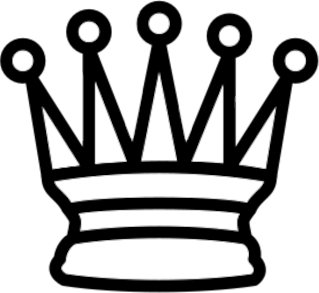
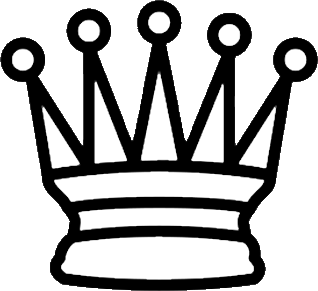
#144 clean up code, beautify CSS for PromotionModal lookin good now, but  still functionally inert

diff --git a/src/frontend/styles/index.css b/src/frontend/styles/index.css
@@ -95,7 +95,7 @@ main {
 }
 
 .playArea {
-    margin-top: 3%;
+    margin-top: 5%;
     margin-left: 1%;
 }
 
@@ -111,6 +111,7 @@ main {
     width: 60px;
     height: 60px;
     display: inline-block;
+    position: relative;
 }
 
 .lightTile {
@@ -136,6 +137,47 @@ main {
     margin-left: 10%;
     margin-top: 10%;
     pointer-events: none;
+}
+
+.promotionModal {
+    z-index: 100;
+    position: absolute;
+    width: 250px;
+    height: 70px;
+    right: -158%;
+    bottom: 75%;
+    border-radius: 100px;
+}
+
+.promotionModalWhite {
+    background: #ffffff99;
+}
+
+.promotionModalBlack {
+    background: #00000099;
+}
+
+.promotionPieceDiv {
+    border-radius: 200px;
+    display: inline-block;
+    position: relative;
+    height: 60px;
+    width: 60px;
+    top: 5px;
+    left: 2%;
+}
+
+.promotionPieceDiv:hover {
+    background: #00000099;
+}
+
+.promotionPiece {
+    position: relative;
+    left: 15%;
+    top: 15%;
+    height: 70%; /* proportionate to nearest absolute parent */
+    width: 70%;
+    opacity: 1;
 }
 
 #createGameDiv {

diff --git a/src/frontend/scripts/components/chess/Chessboard.js b/src/frontend/scripts/components/chess/Chessboard.js
@@ -5,15 +5,15 @@ import React, {useEffect, useState} from 'react';
 import generateMoves from "./moveGenerator";
 import {chessSocketConnect, sendMoveUpdate} from "./chessSocket";
 import {isPromotion, pieceAt} from "./chessUtils";
-import displayPromotionModal from "./PromotionModal";
+import PromotionModal from "./PromotionModal";
 
 export function Chessboard() {
 
 	const [boardstate, setBoardstate] = useState(payload.game.boardstate);
 	const [gameDetails, setGameDetails] = useState([]); // gets populated during socket connect
 
-	let [highlightedTiles, setHighlightedTiles] = useState([]);
-	let [activeTileId, setActiveTileId] = useState(""); // refers to tile where the piece that's selected for movement is located
+	const [highlightedTiles, setHighlightedTiles] = useState([]);
+	const [activeTileId, setActiveTileId] = useState(""); // refers to tile where the piece that's selected for movement is located
 
 	// useEffect ensures the component has rendered at least once before the ws connection, which syncs with the chessboard, is made.
 	// note - this only triggers on the first render, due to the empty dependency array. (no dependencies => no ongoing effect)
@@ -31,7 +31,6 @@ export function Chessboard() {
 		if(highlightedTiles.includes(clickedTileId)) {
 
 			if (isPromotion(piece, clickedTileId, activeTileId)) {
-				displayPromotionModal(clickedTileId);
 				return;
 			}
 
@@ -78,26 +77,24 @@ function Row({rowIndex, tiles, highlightedTiles}){
 
 function Tile({isDarkTile, isHighlightedTile, tileId, data}) {
 
-	const piece = data.piece;
-
-	let imagePath = "";
-	let altText = "";
-
-	if (piece != null) {
-		imagePath = "/frontend/images/" + piece.color + piece.type + ".png";
-		altText = "A " + piece.color + " " + piece.type + ".";
-
-		if (piece.type === "Bishop" && piece.color === "Black") {
-			imagePath = "/frontend/svg/" + piece.color + piece.type + ".svg";
-		}
-	}
-
 	const color = isDarkTile ? "dark" : "light";
 	const className = `tile ${color}${isHighlightedTile ? "HighlightedTile" : "Tile"}`;
 
 	return (
 		<span key={tileId} className={className} id={tileId}>
-			{ imagePath !== "" && <img src={imagePath} className="pieceImg" alt={altText} /> }
+			{ data.piece != null && <Piece piece={data.piece} /> }
+			{tileId === "70" && <PromotionModal tileId={tileId}/>}
 		</span>
 	);
+}
+
+export function Piece ({piece}) {
+
+	let imagePath = "/frontend/images/" + piece.color + piece.type + ".png";
+	let altText = "A " + piece.color + " " + piece.type + ".";
+
+	if (piece.type === "Bishop" && piece.color === "Black") {
+		imagePath = "/frontend/svg/" + piece.color + piece.type + ".svg";
+	}
+	 return <img src={imagePath} className="pieceImg" alt={altText} />;
 }

diff --git a/src/frontend/scripts/components/chess/PromotionModal.js b/src/frontend/scripts/components/chess/PromotionModal.js
@@ -1,26 +1,29 @@
 import React from "react";
-import {BISHOP, KNIGHT, QUEEN, ROOK} from "./chessConsts";
+import {BISHOP, BLACK, KNIGHT, QUEEN, ROOK, WHITE} from "./chessConsts";
 
-export function PromotionModal({}) {
+export default function PromotionModal({tileId}) {
+
+    let row = parseInt(tileId['0']);
 
     const pieces = [BISHOP, KNIGHT, QUEEN, ROOK];
-    const color =
+    const color = row === 0 ? BLACK : WHITE;
 
     return (
-        <div id="promotion-modal">
-            {
-                pieces.map(pieceType => {
-                    let imagePath = "/frontend/images/" + color + pieceType + ".png";
-                    let altText = "A " + color + " " + pieceType + ".";
-                    return <img src={imagePath} className="pieceImg" alt={altText}/>;
-                })
-            }
+        <div className={"promotionModal" + " promotionModal" + color} >
+            { pieces.map(pieceType => <PromotionPiece key={pieceType} piece={{color: color, type: pieceType}} /> )}
         </div>
     );
 }
 
+function PromotionPiece ({piece}) {
 
+    let imagePath = "/frontend/images/" + piece.color + piece.type + ".png";
+    let altText = "A " + piece.color + " " + piece.type + ".";
 
-export default function displayPromotionModal(clickedTileId) {
-
+    if (piece.type === "Bishop" && piece.color === "Black") {
+        imagePath = "/frontend/svg/" + piece.color + piece.type + ".svg";
+    }
+    return <div className="promotionPieceDiv">
+        <img src={imagePath} className="promotionPiece" alt={altText} />
+    </div>;
 }